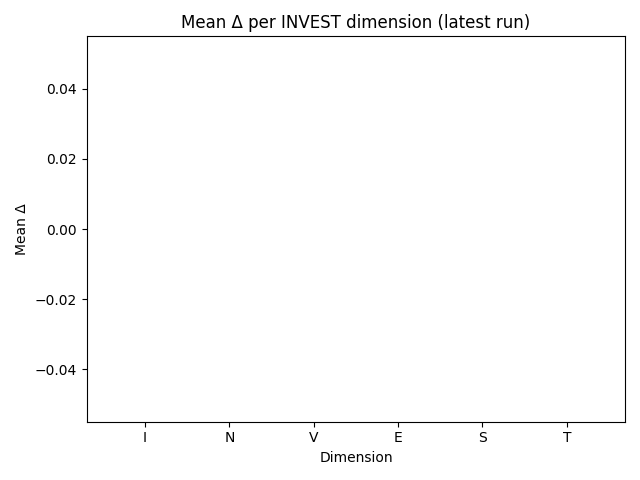
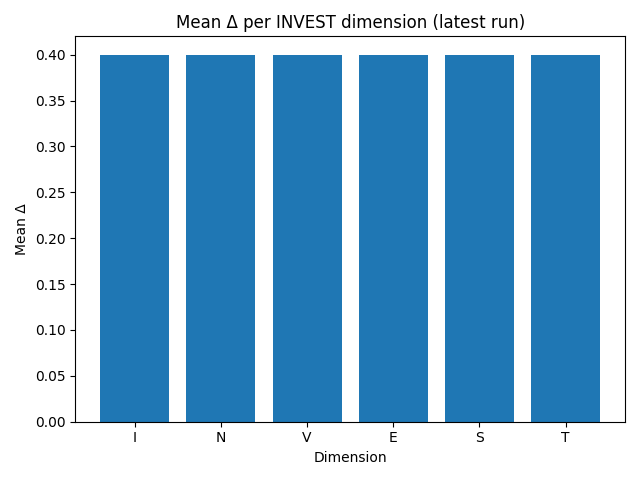
before 251015

diff --git a/core/pipeline.py b/core/pipeline.py
@@ -146,8 +146,9 @@ def compile_scorer_with_teleprompt(base_scorer: "InvestScorer") -> "InvestScorer
             ).with_inputs("input_text")
         )
     try:
-        tele = dspy.BootstrapFewShot(base_scorer.predict, max_bootstrapped_demos=min(6, len(trainset)))
-        compiled = tele.compile(trainset=trainset)
+        # ✅ 新版 DSPy 需要 student 參數
+        tele = dspy.BootstrapFewShot(k=min(6, len(trainset)))
+        compiled = tele.compile(student=base_scorer.predict, trainset=trainset)
         base_scorer.predict = compiled
     except Exception as e:
         print(f"[WARN] compile_scorer_with_teleprompt failed: {e}")
@@ -182,8 +183,9 @@ def compile_rewriter_with_teleprompt(base_rewriter: "UserStoryRewriter", scorer:
     ]
 
     try:
-        tele = dspy.BootstrapFewShot(base_rewriter.rewrite, max_bootstrapped_demos=min(6, len(trainset)))
-        compiled = tele.compile(trainset=trainset)
+        # ✅ 新版 DSPy 需要 student 參數
+        tele = dspy.BootstrapFewShot(k=min(6, len(trainset)))
+        compiled = tele.compile(student=base_rewriter.rewrite, trainset=trainset)
         base_rewriter.rewrite = compiled
     except Exception as e:
         print(f"[WARN] compile_rewriter_with_teleprompt failed: {e}")
